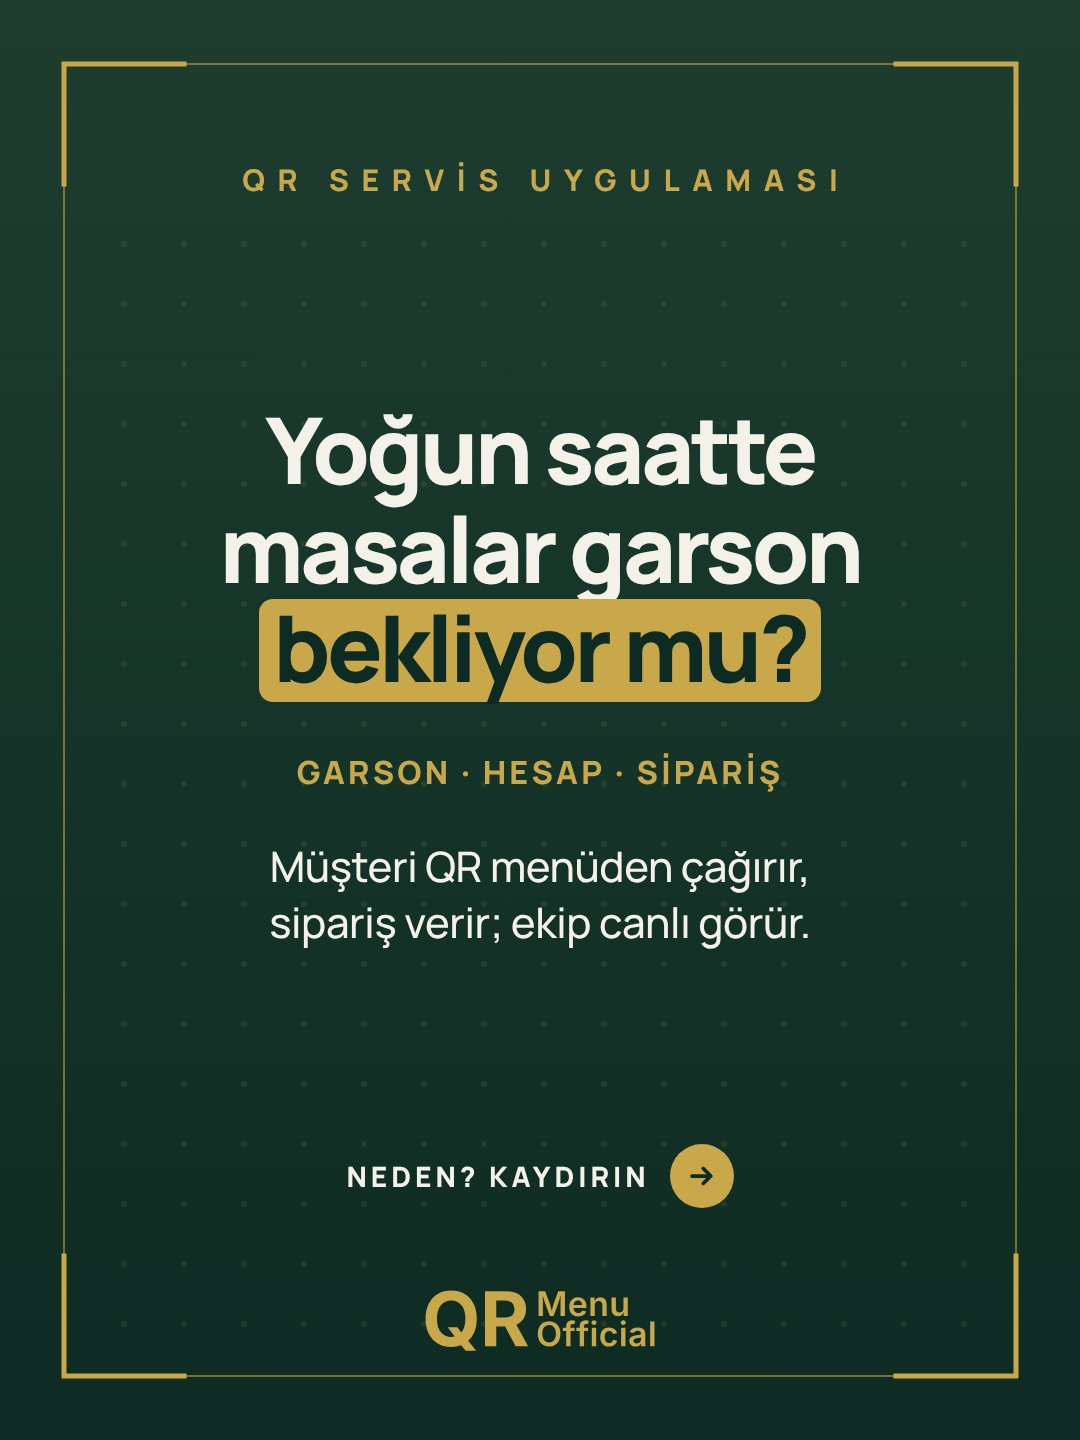
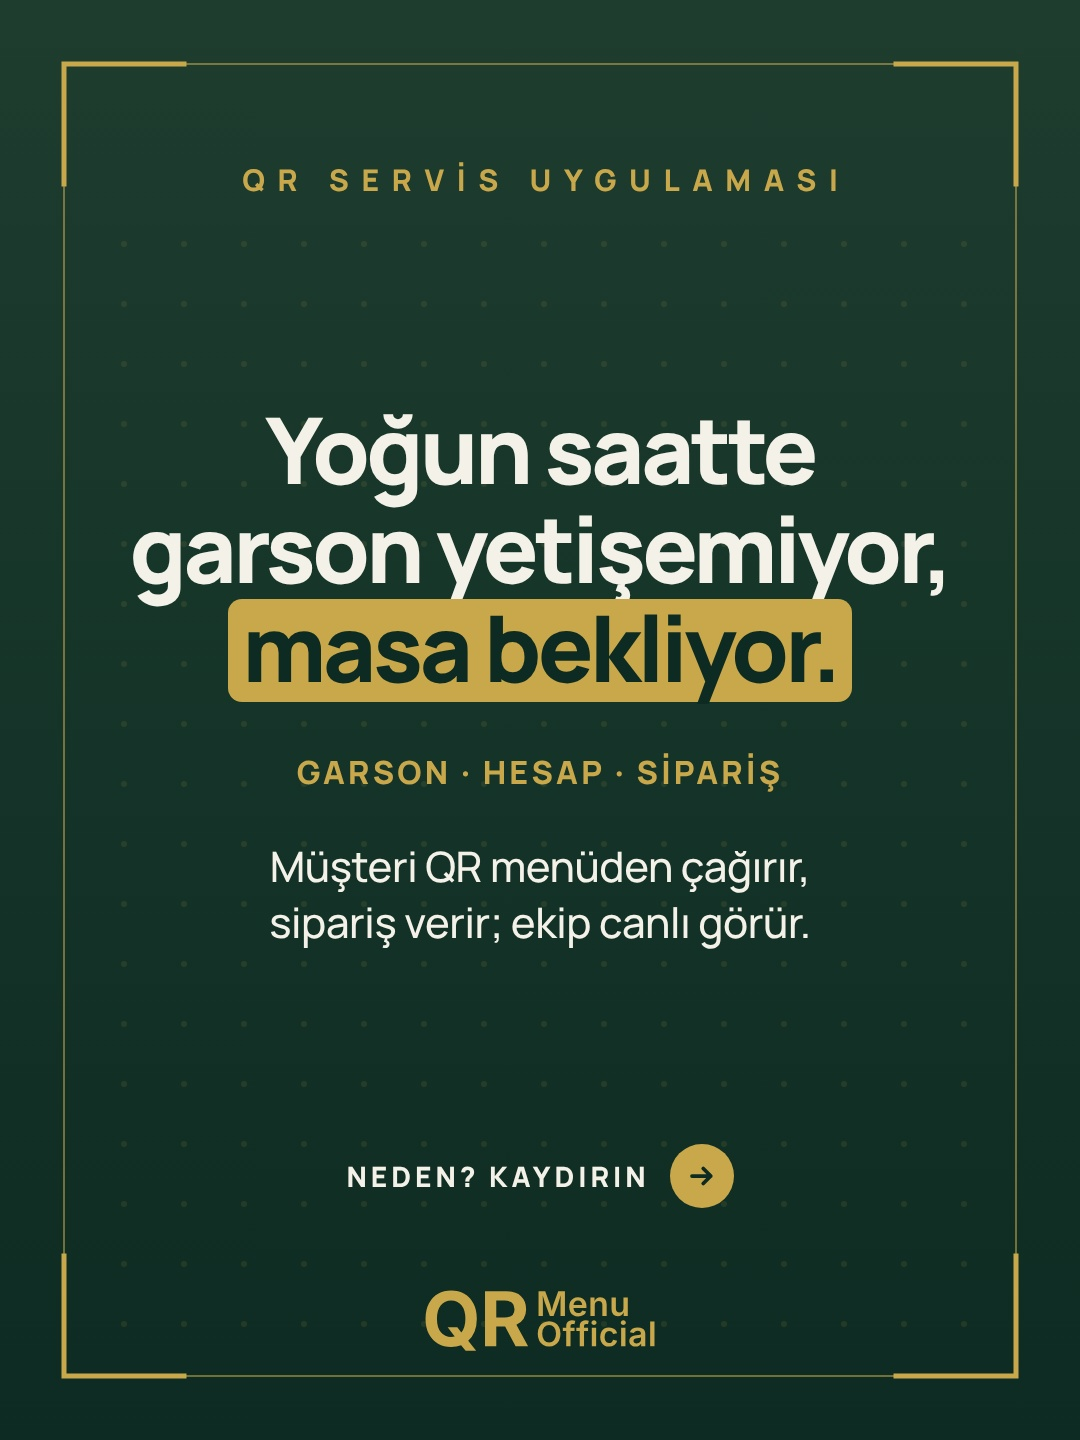
QR Servis carousel: yeni kapak metni (taslak)
Claude-Session: https://claude.ai/code/session_01FBw9rVwrniVjyFvtgVdFXq

Changed region(s): [[0.1222, 0.3438, 0.8861, 0.5]]

diff --git a/tools/ig-carousel/qr-servis.html b/tools/ig-carousel/qr-servis.html
@@ -176,7 +176,7 @@ const nx=(t,c)=>`<div class="nx">${t}<i>${ARW(c)}</i></div>`;
 const LAB='<div class="lab LCLS" style="font-size:30px;padding-top:34px">QR SERVİS UYGULAMASI</div>';
 const SL={
 1:{bg:'altin',html:()=>LAB.replace('LCLS','')+`
- <div class="area c" style="top:200px;bottom:290px"><div class="h" id="H" data-max="92" data-min="76">${L(['Yoğun saatte','masalar garson','[[bekliyor mu?]]'])}</div>
+ <div class="area c" style="top:200px;bottom:290px"><div class="h" id="H" data-max="92" data-min="76">${L(['Yoğun saatte','garson yetişemiyor,','[[masa bekliyor.]]'])}</div>
  <div class="langs">GARSON · HESAP · SİPARİŞ</div>
  <div class="p" id="P" data-max="42" data-min="36">${L(['Müşteri QR menüden çağırır,','sipariş verir; ekip canlı görür.'])}</div></div>
  ${nx('Neden? Kaydırın','#F4F1E8').replace('class="nx"','class="nx" style="bottom:232px"')}<div class="logo">${LG()}</div>`},
